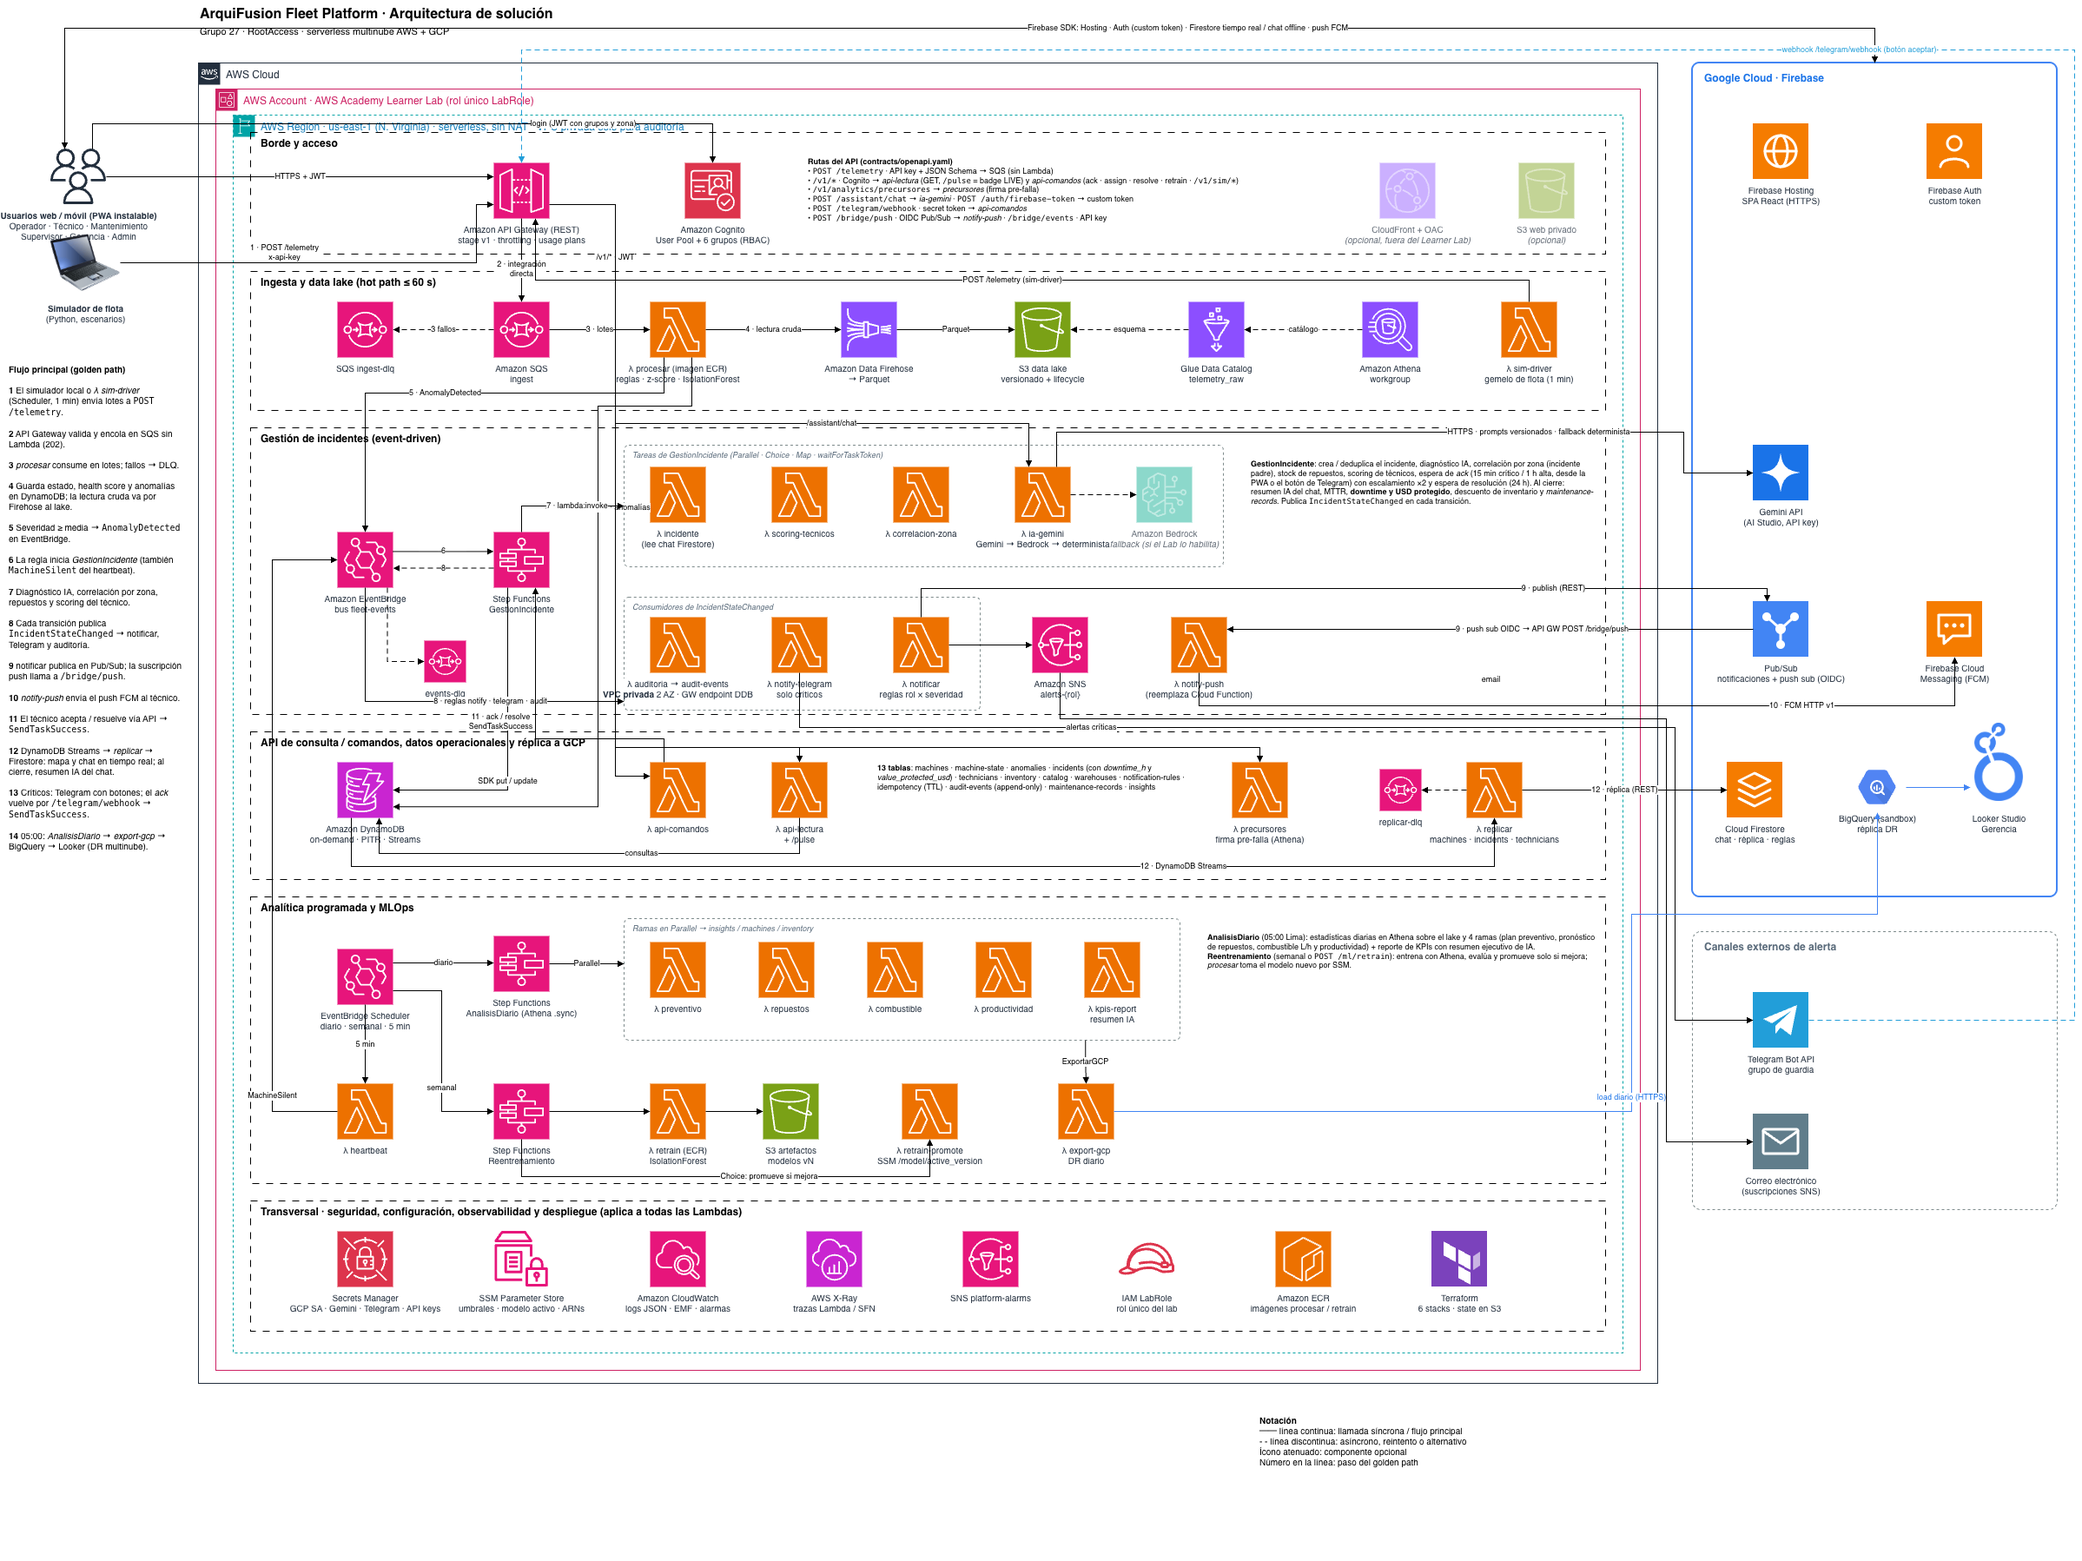
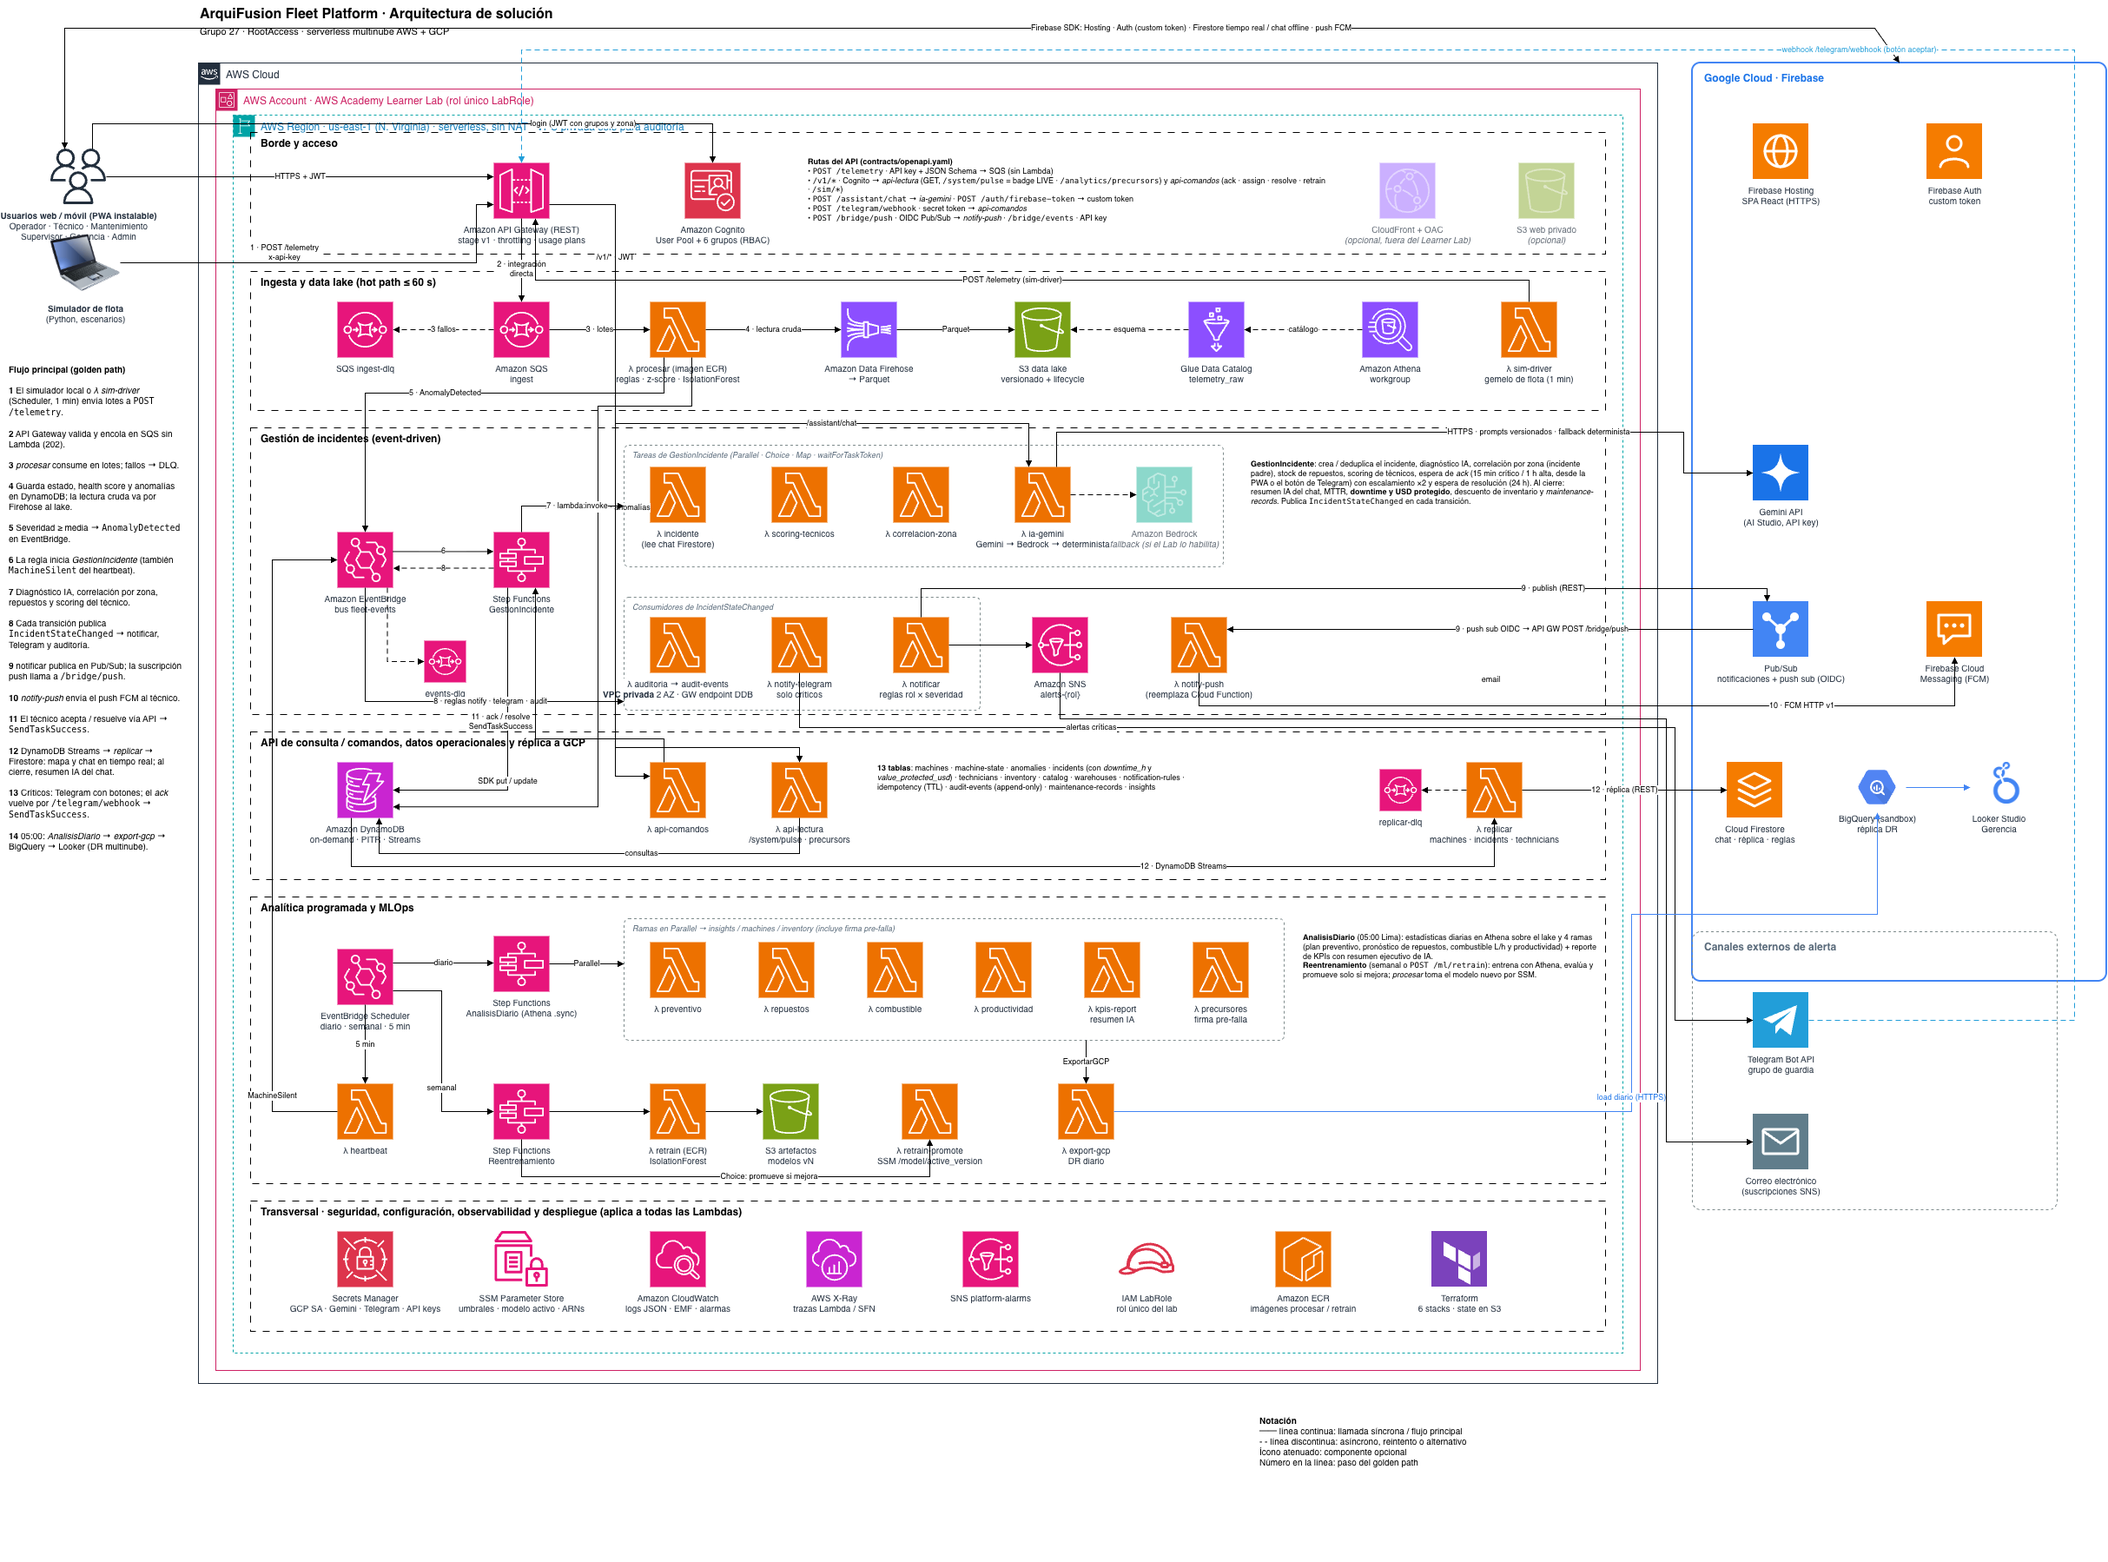
docs: use real API routes and show precursores as an AnalisisDiario branch

diff --git a/docs/arquitectura-solucion-aws.md b/docs/arquitectura-solucion-aws.md
@@ -26,7 +26,7 @@ flowchart LR
   %% ===================== BORDE =====================
   subgraph EDGE["Capa de borde (AWS administrado)"]
     COG["Cognito<br/>User Pool + grupos"]
-    APIGW["API Gateway REST<br/>/telemetry (API key) · /v1/* (JWT)<br/>/v1/sim/* · /telegram/webhook"]
+    APIGW["API Gateway REST<br/>/telemetry (API key) · /v1/* (JWT)<br/>/sim/* · /telegram/webhook"]
   end
 
   %% ===================== INGESTA =====================
@@ -58,9 +58,9 @@ flowchart LR
 
   %% ===================== SERVICIOS =====================
   subgraph SVC["Lambdas de dominio"]
-    LREAD["Lambda api-lectura<br/>(/v1/* + /pulse)"]
+    LREAD["Lambda api-lectura<br/>(/v1/* · /system/pulse · /analytics/precursors)"]
     LCMD["Lambda api-comandos<br/>(ack · resolve · sim · Telegram)"]
-    LPRE["Lambda precursores<br/>(firma pre-falla)"]
+    LPRE["Lambda precursores<br/>(rama de AnalisisDiario)"]
     LASSIGN["Lambda scoring técnicos"]
     LCORR["Lambda correlación zona"]
     LNOTIF["Lambda notificar por rol"]
@@ -110,7 +110,6 @@ flowchart LR
   APIGW -->|integración directa| SQS
   APIGW --> LREAD
   APIGW --> LCMD
-  APIGW --> LPRE
   SQS --> LPROC
   SQS -.->|3 fallos| DLQ
   LPROC --> DDB
@@ -142,7 +141,8 @@ flowchart LR
   SFN2 --> ATH
   SFN3 --> ATH
   SFN3 --> S3M
-  LPRE --> ATH
+  SFN2 --> LPRE --> ATH
+  LPRE -->|insight precursors| DDB
   ATH --> GLUE
   ATH --> S3L
 
@@ -171,7 +171,7 @@ flowchart LR
 └───────┬───────────────────────────────────┬──────────────────┬────────────────────┬─────────────────┘
         │ HTTPS + API key                   │ HTTPS + JWT      │ SDK Firestore (WSS) │ webhook HTTPS
 ┌───────▼──────────────────────── BORDE (sin VPC, administrado) ─────────────────────▼───────────────┐
-│  API Gateway REST ── Cognito authorizer ── /telemetry · /v1/* · /v1/sim/* · /telegram/webhook      │
+│  API Gateway REST ── Cognito authorizer ── /telemetry · /v1/* · /sim/* · /telegram/webhook      │
 │  (PWA servida por Firebase Hosting, GCP)                                                           │
 └───────┬──────────────────────────────┬─────────────────────────────────────────────────────────────┘
         │ /telemetry                   │ /v1/*
@@ -204,7 +204,7 @@ flowchart LR
 | **Firebase Hosting (GCP)** | Sitio estático (`frontend/firebase.json`), HTTPS administrado, CDN global, sin costo. Sirve una **PWA instalable** (manifest + service worker que nunca intercepta `googleapis.com` ni `execute-api`) | Sirve el frontend con TLS sin bucket público y permite instalarlo en el móvil del técnico | RF-15, RNF-08, MH-SEC-05 |
 | **CloudFront + S3 (opcional)** | Alternativa fuera del Learner Lab: distribución CloudFront con origen S3 vía **OAC**, bucket privado | Hosting estático alternativo (el Learner Lab deniega CloudFront) | RF-15, RNF-02 |
 | **Amazon Cognito User Pool** | Grupos: `operador`, `tecnico`, `mantenimiento`, `supervisor`, `admin`, `gerencia`. Sin Identity Pool (requiere crear roles) | Autenticación y RBAC por rol | RNF-08, RF-15.1, MH-SEC-02 |
-| **Amazon API Gateway (REST)** | Un solo API con varias zonas: `/telemetry` (API key + usage plan + *request validator* JSON Schema + integración directa a SQS con `LabRole`), `/v1/*` (Cognito authorizer → Lambdas), `/v1/sim/*` (control del simulador, rol admin), `/telegram/webhook` (secret token de Telegram) y `/bridge/push` (token OIDC de la suscripción de Pub/Sub). Throttling por etapa | Punto único de entrada, validación previa y protección contra abuso | RF-01.1/01.3, §5.5 APIs, MH-SEC-06, MH-NET-02 |
+| **Amazon API Gateway (REST)** | Un solo API con varias zonas: `/telemetry` (API key + usage plan + *request validator* JSON Schema + integración directa a SQS con `LabRole`), `/v1/*` (Cognito authorizer → Lambdas), `/sim/scenario|stop|state` (control del simulador, rol admin), `/telegram/webhook` (secret token de Telegram) y `/bridge/push` (token OIDC de la suscripción de Pub/Sub). Throttling por etapa | Punto único de entrada, validación previa y protección contra abuso | RF-01.1/01.3, §5.5 APIs, MH-SEC-06, MH-NET-02 |
 
 ### 2.2 Ingesta y procesamiento (hot path)
 
@@ -212,7 +212,7 @@ flowchart LR
 |---|---|---|---|
 | **Amazon SQS (ingest + DLQ)** | Standard, visibilidad de 60 s, `maxReceiveCount=3` → DLQ, retención de 4 días | Desacopla la ingesta del cómputo, absorbe picos y no pierde mensajes. Pago por request, $0 en reposo | RF-01.3/01.4, RNF-07, ESC-04, MH-HA-05 |
 | **AWS Lambda `procesar`** | **Imagen de contenedor (ECR)** Python 3.12 + numpy/sklearn, 1024 MB, batch 100, ventana de 5 s, `ReportBatchItemFailures`, `MaximumConcurrency` acotado | Normaliza lecturas, aplica reglas, z-score (baseline propio y de cohorte) e IsolationForest. Calcula health score, guarda estado y agregados y emite eventos | RF-02.1–02.4, RF-09, ESC-03/07, MH-AI-01/02/03 |
-| **AWS Lambda `sim-driver`** | Gemelo de flota serverless. EventBridge Scheduler la invoca cada minuto y emite telemetría simulada contra `/telemetry` mientras el estado en SSM esté encendido. Se controla desde la consola web (`/v1/sim/*`). Concurrencia reservada 1 | Demo y pruebas sin depender de un PC local encendido | RF-01 |
+| **AWS Lambda `sim-driver`** | Gemelo de flota serverless. EventBridge Scheduler la invoca cada minuto y emite telemetría simulada contra `/telemetry` mientras el estado en SSM esté encendido. Se controla desde la consola web (`/sim/*`). Concurrencia reservada 1 | Demo y pruebas sin depender de un PC local encendido | RF-01 |
 | **Amazon ECR** | Repositorio privado, scan on push, lifecycle de 5 imágenes | Empaqueta dependencias ML que exceden el límite de 250 MB de una Lambda en zip | MH-AI-01 |
 | **Amazon EventBridge (bus `fleet-events`)** | Reglas por `detail-type` (`AnomalyDetected`, `MachineSilent`, `IncidentStateChanged`, `IncidentResolved`) | Desacopla la detección de la respuesta: un evento, múltiples consumidores | ESC-04, RNF-11 |
 
@@ -250,10 +250,10 @@ flowchart LR
 | **Lambda `replicar`** | DynamoDB Streams → Firestore (máquinas, incidentes, técnicos) | MH-HA-03, MH-MC-01 |
 | **Lambda `auditoria`** | Consume el bus `fleet-events` → tabla `audit-events` (append-only) y el historial `EVT#` en `incidents` (antes/después, actor, motivo). Es la **única Lambda dentro de la VPC aislada** | RNF-15, TRZ-02/06 |
 | **Lambda `heartbeat`** | Marca `SILENT` las máquinas sin lectura en más de 3× su frecuencia → evento `MachineSilent` | OBS-09 |
-| **Lambda `precursores`** | Calcula la **firma pre-falla**: qué variables se desvían en las horas previas a una falla, por modelo de máquina (Athena sobre el lake). La consume la vista *Salud Predictiva* | RF-02, RF-13 |
+| **Lambda `precursores`** | Rama de `AnalisisDiario`: calcula la **firma pre-falla** (qué variables se desvían en las horas previas a una falla, por modelo) con Athena y la guarda como insight `precursors`. `api-lectura` la sirve en `GET /analytics/precursors` para *Salud Predictiva* | RF-02, RF-13 |
 | **Lambda `export-gcp`** | Exporta el lake diario, los incidentes cerrados y los insights a BigQuery (DR multinube, §2.8) | RNF-04/05 |
-| **Lambda `api-lectura`** (`/v1/*`) | Lecturas con RBAC y zona. Incluye **`/pulse`**: salud del sistema (máquinas reportando, actualizaciones por minuto, antigüedad del último dato), que alimenta el badge **LIVE** del header | §5.5, RNF-09 |
-| **Lambda `api-comandos`** | Acciones `ack`, `assign`, `resolve`, control del simulador (`/v1/sim/*`) y webhook de Telegram. `ack` y `resolve` llaman a `SendTaskSuccess` | §5.5, RF-06.4, TRZ-09 |
+| **Lambda `api-lectura`** (`/v1/*`) | Lecturas con RBAC y zona. Incluye **`/system/pulse`**: salud del sistema (y `/analytics/precursors`) (máquinas reportando, actualizaciones por minuto, antigüedad del último dato), que alimenta el badge **LIVE** del header | §5.5, RNF-09 |
+| **Lambda `api-comandos`** | Acciones `ack`, `assign`, `resolve`, control del simulador (`/sim/*`) y webhook de Telegram. `ack` y `resolve` llaman a `SendTaskSuccess` | §5.5, RF-06.4, TRZ-09 |
 | **Amazon SNS** | Topics por rol (`alerts-tecnico`, `alerts-mantenimiento`, `alerts-gerencia`) + topic `platform-alarms` | RF-10.2, MH-OBS-03 |
 | **AWS Secrets Manager** | `gcp/service-account`, `gemini/api-key`, `telegram/bot-token`, `webhook/slack`, `simulator/api-key`, `bridge/gcp-api-key` | Rúbrica (variables globales), MH-SEC-03 |
 | **SSM Parameter Store** | `/arquifusion/{stage}/thresholds/*`, `/model/active_version`, `/prompts/version`, estado del `sim-driver` (String/SecureString estándar, gratis) | RF-02.1, TRZ-05 |
@@ -366,7 +366,7 @@ No hay más SG porque no hay otros recursos con ENI (sin EC2, RDS, ALB ni endpoi
 | Capa | Mecanismo |
 |---|---|
 | **Identidad de usuarios** | Cognito User Pool (MFA opcional TOTP, política de contraseñas). Grupos = roles. El JWT incluye `cognito:groups` y `custom:zone`. |
-| **Autorización API** | Cognito authorizer en API Gateway + validación de rol y zona dentro de cada Lambda (RBAC). Por ejemplo, `gerencia` solo puede hacer GET, `tecnico` solo puede hacer `ack`/`resolve` de sus incidentes asignados y `/v1/sim/*` es solo para `admin`. |
+| **Autorización API** | Cognito authorizer en API Gateway + validación de rol y zona dentro de cada Lambda (RBAC). Por ejemplo, `gerencia` solo puede hacer GET, `tecnico` solo puede hacer `ack`/`resolve` de sus incidentes asignados y `/sim/*` es solo para `admin`. |
 | **Identidad de máquinas** | API key por operación (`simulator-{operation_id}`) + usage plan (rate 500 rps, burst 1.000, cuota diaria). |
 | **Telegram** | `/telegram/webhook` valida el header `X-Telegram-Bot-Api-Secret-Token` y la lista de chats permitidos antes de aceptar una decisión. |
 | **Identidad de servicios** | `LabRole` en todos los recursos (limitación del lab). Mitigación: endpoint policies en el Gateway Endpoint, bucket policies restrictivas y separación de tablas/buckets por `stage`. |
@@ -427,8 +427,8 @@ No hay más SG porque no hay otros recursos con ENI (sin EC2, RDS, ALB ni endpoi
 3. El frontend llama a `GET /v1/machines?zone=norte` con `Authorization: Bearer <JWT>`.
 4. El **Cognito authorizer** de API Gateway valida firma, expiración y audiencia.
 5. **Lambda `api-lectura`** valida RBAC y zona → `Query` a DynamoDB (fuera de la VPC; solo `auditoria` corre dentro).
-6. La respuesta JSON vuelve por API Gateway. En paralelo, los listeners de **Firestore** mantienen el mapa y la cola de incidentes en tiempo real, y `GET /v1/pulse` alimenta el badge **LIVE / SIN SEÑAL** del header.
-7. *Salud Predictiva* consulta la Lambda `precursores` para mostrar las **firmas pre-falla** por modelo; el *Centro de Mando* muestra los **USD protegidos (30 d)** agregados de los cierres.
+6. La respuesta JSON vuelve por API Gateway. En paralelo, los listeners de **Firestore** mantienen el mapa y la cola de incidentes en tiempo real, y `GET /system/pulse` alimenta el badge **LIVE / SIN SEÑAL** del header.
+7. *Salud Predictiva* pide `GET /analytics/precursors` (insight calculado cada día por la Lambda `precursores`) para mostrar las **firmas pre-falla** por modelo; el *Centro de Mando* muestra los **USD protegidos (30 d)** agregados de los cierres.
 
 ### Flujo D — Comunicación del incidente (chat)
 
@@ -446,6 +446,7 @@ No hay más SG porque no hay otros recursos con ENI (sin EC2, RDS, ALB ni endpoi
    - **Repuestos**: mantenimientos previstos + fallas predichas → demanda por almacén, stock mín./máx., consumo irregular (RF-04).
    - **Combustible**: L/h y L/ton contra pares e historial, tendencia progresiva (RF-07).
    - **Productividad**: utilización, máquinas ociosas o sobreexplotadas, matriz productividad × costo (RF-08).
+   - **Precursores**: firma pre-falla por modelo → insight `precursors` (lo sirve `GET /analytics/precursors`).
 3. Los resultados se escriben en DynamoDB (`Machines.next_maintenance`, `Inventory.recommended_*`, tabla `insights`).
 4. **`KpisYReporte`**: Lambda `ia-gemini` genera el resumen ejecutivo → `notificar` (rol `admin` y `gerencia`).
 5. Estado **`ExportarGCP`** (Lambda `export-gcp`) sube a **BigQuery** el lake diario, los incidentes cerrados y los insights (réplica DR cross-cloud, §2.8) → tablero de **Looker Studio** para Gerencia.
@@ -464,10 +465,10 @@ No hay más SG porque no hay otros recursos con ENI (sin EC2, RDS, ALB ni endpoi
 3. Alarmas (DLQ > 0, errores > 1 %, SFN fallida, `ApproximateAgeOfOldestMessage` > 60 s, throttles) → SNS `platform-alarms`.
 4. **X-Ray** traza API Gateway → Lambda → Step Functions → Lambda IA, incluyendo la llamada saliente a GCP como subsegmento.
 5. La Lambda `heartbeat` (cada 5 min) detecta máquinas silenciosas → evento `MachineSilent` → incidente de severidad Media.
-6. `GET /v1/pulse` resume la salud del pipeline para el badge del header: **LIVE** si llegan datos recientes, **SIN SEÑAL** si se corta la telemetría y **DEMO** en modo demo.
+6. `GET /system/pulse` resume la salud del pipeline para el badge del header: **LIVE** si llegan datos recientes, **SIN SEÑAL** si se corta la telemetría y **DEMO** en modo demo.
 
 ### Flujo H — Simulador serverless y demo
 
-1. Desde la consola (rol `admin`, botón **Simulador**) se elige un escenario (degradación progresiva, falla súbita, pico de presión, falla eléctrica o incidente grupal por zona) → `POST /v1/sim/*` → `api-comandos` guarda el estado en SSM.
+1. Desde la consola (rol `admin`, botón **Simulador**) se elige un escenario (degradación progresiva, falla súbita, pico de presión, falla eléctrica o incidente grupal por zona) → `POST /sim/scenario` → `api-comandos` guarda el estado en SSM.
 2. Mientras el estado esté encendido, EventBridge Scheduler invoca `sim-driver` cada minuto, que emite la telemetría del escenario por `/telemetry` y entra al Flujo A como cualquier máquina real.
 3. `scripts/demo_preflight.sh` verifica que todo esté desplegado y respondiendo; `scripts/demo_reset.py` limpia incidentes y estado antes de una presentación.
